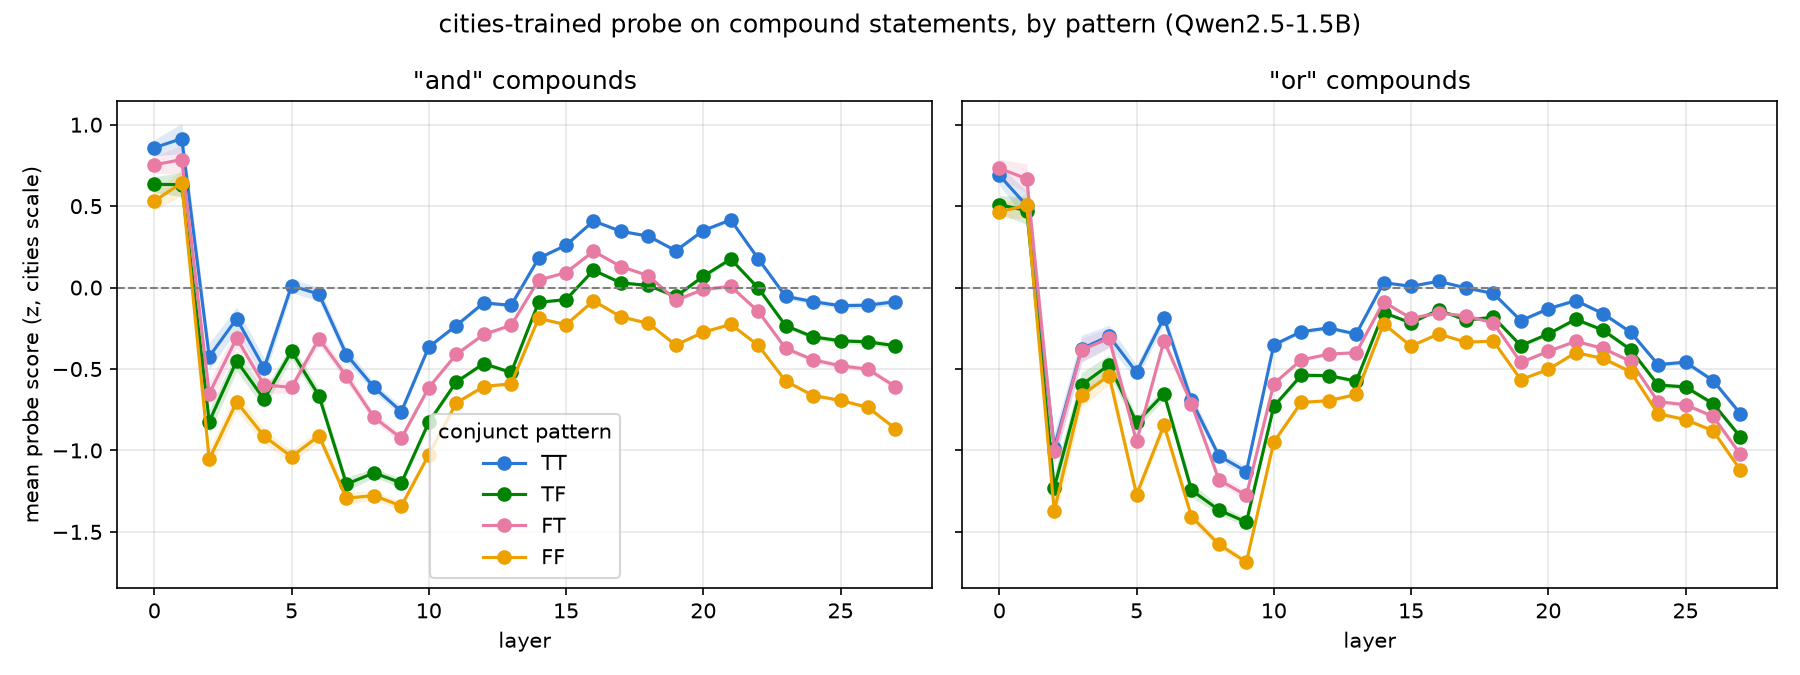
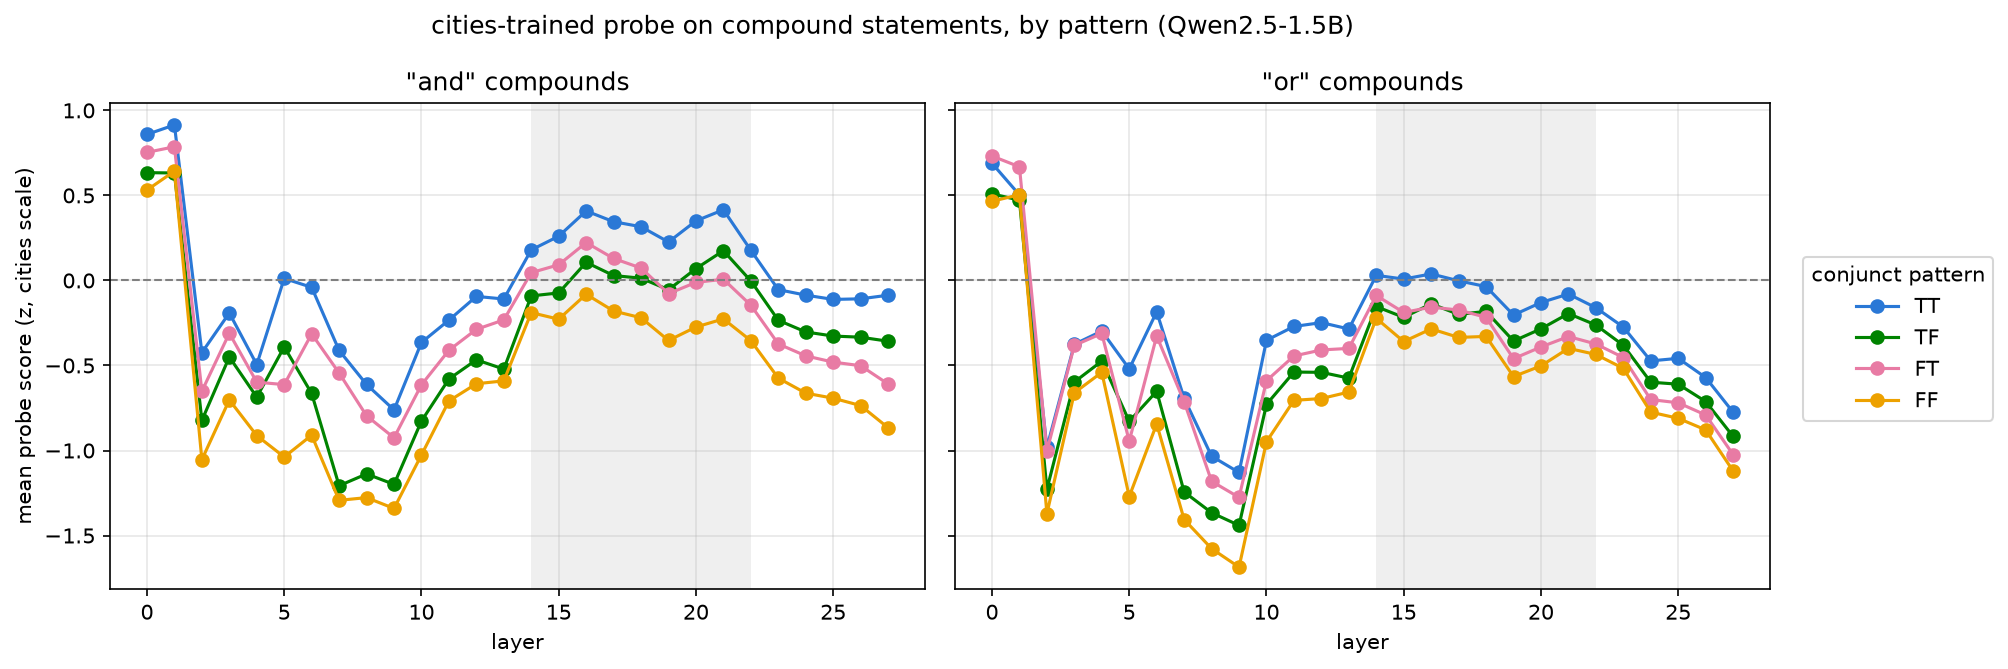
Add centered-overlay compound plot, discussion-layer span, and outside legends
New compound_scores_centered.png subtracts each connective's own
per-layer mean from its four pattern cells and overlays both profiles
on one axes (color = pattern, linestyle = connective) with SEM bands,
so the and/or shapes compare directly without the overall-level offset.

Two-panel plot drops its error bands (kept only on the centered one)
and both now shade layers 14-22, the range under discussion. All three
figures move their legend outside the axes.

diff --git a/scripts/probe_compound_transfer.py b/scripts/probe_compound_transfer.py
@@ -16,6 +16,8 @@ MODEL_NAME = "Qwen2.5-1.5B"
 PALETTE = ["#2a78d6", "#008300", "#e87ba4", "#eda100", "#1baf7a", "#eb6834", "#4a3aa7", "#e34948"]
 PATTERNS = ["TT", "TF", "FT", "FF"]
 PATTERN_COLORS = {"TT": "#2a78d6", "TF": "#008300", "FT": "#e87ba4", "FF": "#eda100"}
+CONNECTIVE_STYLE = {"and": "-", "or": "--"}
+DISCUSSION_LAYERS = (14, 22)  # layer range to highlight in plots
 
 acts_cities, labels_cities = load_activations("cities")
 acts_compound, _ = load_activations("compound_cities")
@@ -67,12 +69,12 @@ plt.xlabel("layer")
 plt.ylabel("standardized probe score")
 plt.title(f"cities-trained probe applied to compound and/or statements ({MODEL_NAME})")
 plt.grid(alpha=0.3)
-plt.legend(ncol=2, fontsize=8)
+plt.legend(loc="upper left", bbox_to_anchor=(1.02, 1), borderaxespad=0, fontsize=8)
 plt.tight_layout()
 
 os.makedirs("figures/transfer", exist_ok=True)
 out_path = "figures/transfer/cities_probe_on_compound.png"
-plt.savefig(out_path, dpi=150)
+plt.savefig(out_path, dpi=150, bbox_inches="tight")
 print(f"saved {out_path}")
 
 # one panel per connective, sharing a y-axis, so the two profiles (how score
@@ -82,18 +84,51 @@ fig, axes = plt.subplots(1, 2, figsize=(12, 4.5), sharey=True)
 for ax, conn in zip(axes, ["and", "or"]):
     for pat in PATTERNS:
         m = ((meta.connective == conn) & (meta.pattern == pat)).values
-        mean, sem = mean_and_sem(m)
+        mean, _ = mean_and_sem(m)
         ax.plot(layers, mean, color=PATTERN_COLORS[pat], marker="o", label=pat)
-        ax.fill_between(layers, mean - sem, mean + sem, color=PATTERN_COLORS[pat], alpha=0.15, linewidth=0)
+    ax.axvspan(*DISCUSSION_LAYERS, color="gray", alpha=0.12, linewidth=0)
     ax.axhline(0, color="gray", linestyle="--", linewidth=1)
     ax.set_title(f'"{conn}" compounds')
     ax.set_xlabel("layer")
     ax.grid(alpha=0.3)
 axes[0].set_ylabel("mean probe score (z, cities scale)")
-axes[0].legend(title="conjunct pattern")
+handles, labels = axes[0].get_legend_handles_labels()
+fig.legend(handles, labels, title="conjunct pattern", loc="center left", bbox_to_anchor=(1.0, 0.5))
 fig.suptitle(f"cities-trained probe on compound statements, by pattern ({MODEL_NAME})")
 fig.tight_layout()
 
 out_path = "figures/transfer/compound_scores_by_layer.png"
-fig.savefig(out_path, dpi=150)
+fig.savefig(out_path, dpi=150, bbox_inches="tight")
+print(f"saved {out_path}")
+
+# center within connective: subtract each connective's own (per-layer) mean
+# across its four pattern cells, isolating the pattern *shape* from the
+# connective's overall level, then overlay both profiles on one axes --
+# color = pattern, linestyle = connective, so same-color solid vs dashed
+# lines show directly whether and/or shape the same way.
+centered = group_means.copy()
+for conn in ["and", "or"]:
+    cols = [f"{conn}-{p}" for p in PATTERNS]
+    centered[cols] = group_means[cols].sub(group_means[cols].mean(axis=1), axis=0)
+centered.to_csv(f"{results_dir}/cities_probe_scores_by_group_centered.csv")
+print(f"saved {results_dir}/cities_probe_scores_by_group_centered.csv")
+
+plt.figure(figsize=(9, 6))
+for conn, linestyle in CONNECTIVE_STYLE.items():
+    for pat in PATTERNS:
+        col = f"{conn}-{pat}"
+        mean, sem = centered[col], group_sems[col]
+        plt.plot(layers, mean, color=PATTERN_COLORS[pat], linestyle=linestyle, marker="o", label=col)
+        plt.fill_between(layers, mean - sem, mean + sem, color=PATTERN_COLORS[pat], alpha=0.15, linewidth=0)
+plt.axvspan(*DISCUSSION_LAYERS, color="gray", alpha=0.12, linewidth=0)
+plt.axhline(0, linestyle=":", color="gray", label="connective mean")
+plt.xlabel("layer")
+plt.ylabel("standardized probe score, centered within connective")
+plt.title(f"cities-trained probe on compound statements, centered within connective ({MODEL_NAME})")
+plt.grid(alpha=0.3)
+plt.legend(loc="upper left", bbox_to_anchor=(1.02, 1), borderaxespad=0, fontsize=8)
+plt.tight_layout()
+
+out_path = "figures/transfer/compound_scores_centered.png"
+plt.savefig(out_path, dpi=150, bbox_inches="tight")
 print(f"saved {out_path}")
